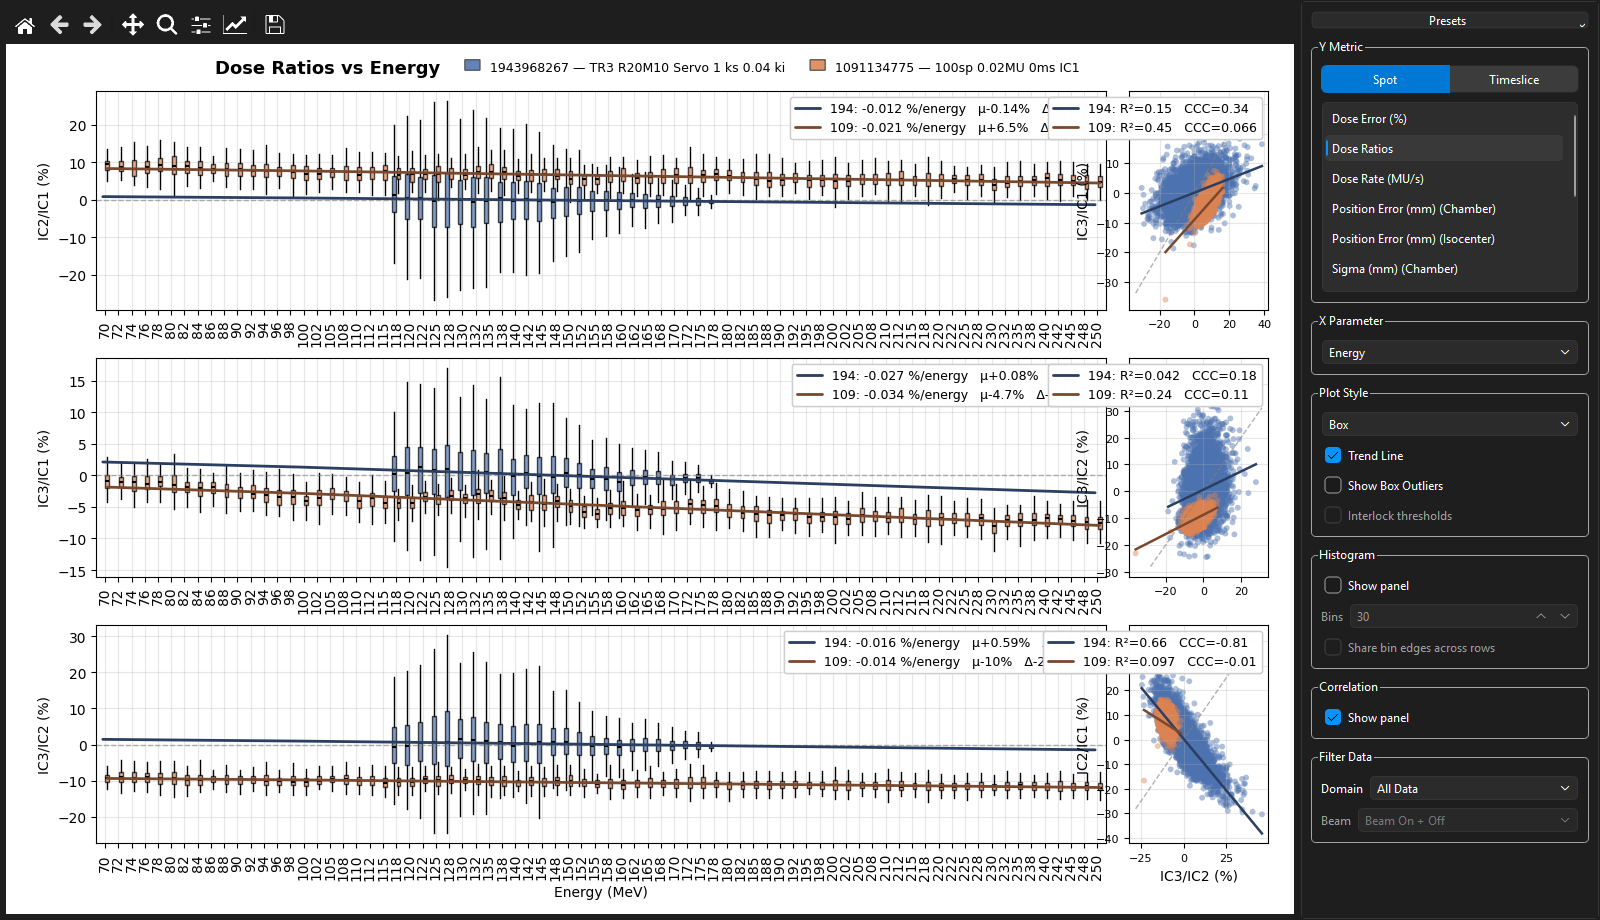
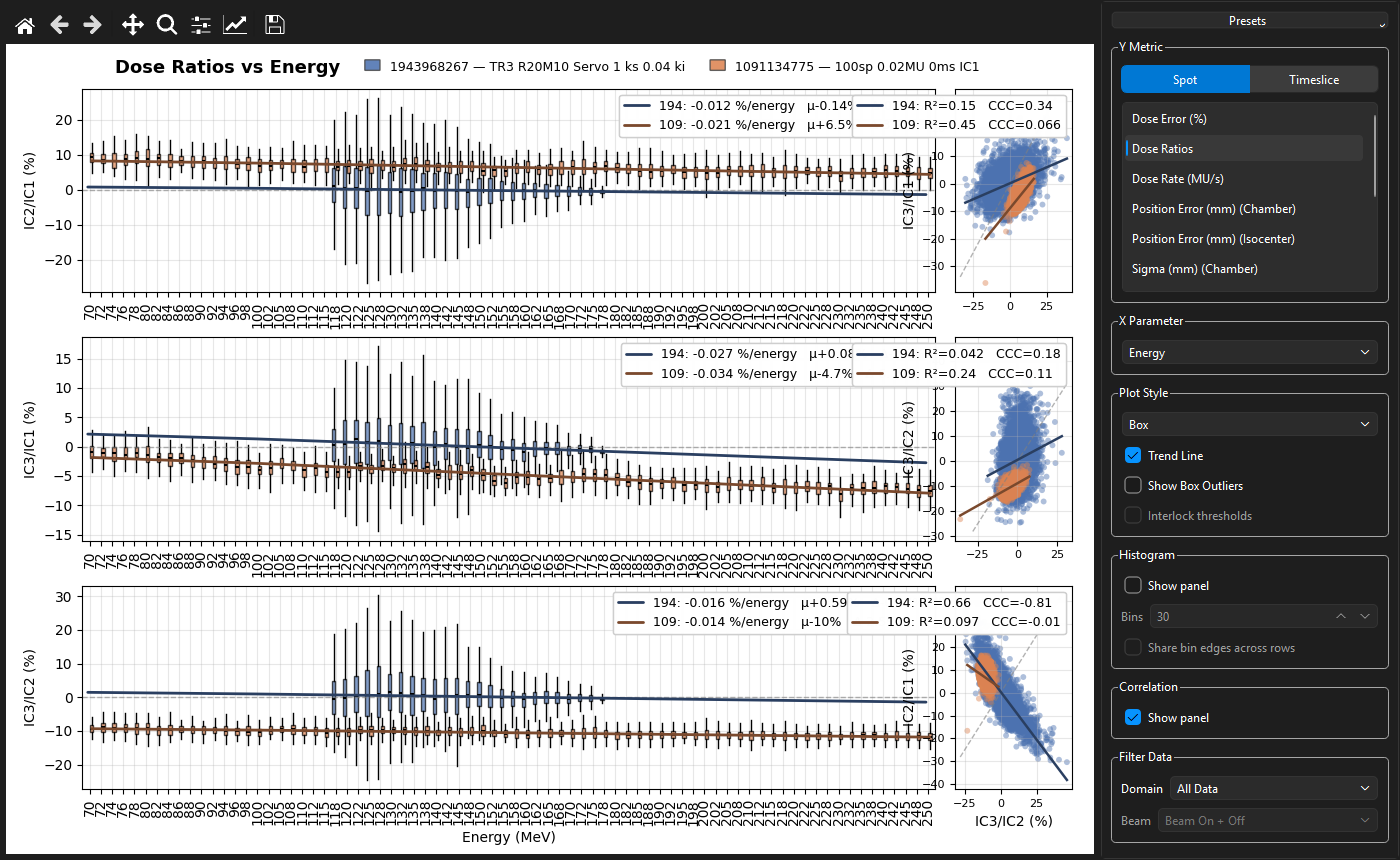
Strip README em dashes and recapture screenshots so they stay readable on GitHub.

Changed region(s): [[0.0, 0.0, 1.0, 0.9977], [0.8907, 0.0, 0.9214, 0.0302]]

diff --git a/scripts/capture_doc_screenshots.py b/scripts/capture_doc_screenshots.py
@@ -5,7 +5,7 @@ Usage:
     python scripts/capture_doc_screenshots.py
 
 Requires a local test_data/ folder (not shipped with the repo). Forces the dark
-theme for the grab only — it does not persist View > Theme.
+theme for the grab only; it does not persist View > Theme.
 """
 
 from __future__ import annotations
@@ -23,9 +23,11 @@ OUT_DIR = ROOT / "docs" / "images"
 SESSION_G3_A = "1943968267"
 SESSION_G3_B = "1091134775"
 SESSION_G2 = "590658542"
+# Adjacent in the date-sorted table so both Use swatches show in the launcher shot.
+LAUNCHER_SESSIONS = ["656350661", "1943968267"]
 
-LAUNCHER_SIZE = (1440, 900)
-VIEW_SIZE = (1600, 920)
+LAUNCHER_SIZE = (1200, 760)
+VIEW_SIZE = (1400, 860)
 PUBLIC_DATA_DIR = "test_data"
 PUBLIC_RCI_HOST = "192.168.100.184"
 
@@ -220,9 +222,9 @@ def _capture_launcher_screenshots(base_dir: str) -> None:
     browser.set_base_dir(base_dir)
     _wait_until(lambda: browser._scan_complete and browser._table.rowCount() >= 2)
 
-    _select_sessions(browser, [SESSION_G3_A, SESSION_G3_B])
+    _select_sessions(browser, LAUNCHER_SESSIONS)
     _wait_until(lambda: browser._scan_complete)
-    _select_sessions(browser, [SESSION_G3_A, SESSION_G3_B])
+    _select_sessions(browser, LAUNCHER_SESSIONS)
     browser._base_dir_input.setText(PUBLIC_DATA_DIR)
     app.processEvents()
 
@@ -433,7 +435,7 @@ def main() -> None:
         stale.unlink()
         print(f"Removed stale {stale.name}")
 
-    print(f"\nDone — {len(list(OUT_DIR.glob('*.png')))} images in {OUT_DIR}")
+    print(f"\nDone: {len(list(OUT_DIR.glob('*.png')))} images in {OUT_DIR}")
 
 
 if __name__ == "__main__":

diff --git a/README.md b/README.md
@@ -6,7 +6,7 @@
 
 <p align="center">
   <strong>Open-source analysis for proton pencil beam scanning sessions.</strong><br>
-  Explore beam quality, dosimetry, magnetics, and delivery logs — from a single desktop launcher.
+  Explore beam quality, dosimetry, magnetics, and delivery logs from a single desktop launcher.
 </p>
 
 <p align="center">
@@ -42,7 +42,7 @@
 
 ## What Scan Kit does
 
-Scan Kit is a desktop toolkit for reviewing PBS treatment and QA sessions. Point it at a folder of session data, select up to five sessions, and launch analysis views — each in its own process so the launcher stays responsive.
+Scan Kit is a desktop toolkit for reviewing PBS treatment and QA sessions. Point it at a folder of session data, select up to five sessions, and launch analysis views, each in its own process so the launcher stays responsive.
 
 Beyond plotting, Scan Kit helps you:
 
@@ -54,7 +54,7 @@ Beyond plotting, Scan Kit helps you:
 | **Plan delivery** | Upload a plan to an RCI, run it, and download the session as a G3 zip |
 | **Config editing** | Browse and edit map2map XML with forms, integrity checks, and auto-tuning |
 
-Scan Kit reads standard DCS session exports — unpacked directories or common archive formats — and works with both G2 and G3 data layouts.
+Scan Kit reads standard DCS session exports (unpacked directories or common archive formats) and works with both G2 and G3 data layouts.
 
 ## Get started
 
@@ -117,13 +117,13 @@ On a dev install, the default data source is the bundled `test_data/` folder.
 <p align="center">
   <img src="docs/images/view-dose-ratios-energy.png" alt="Binned Summary dose ratios vs energy with correlation panels" width="920">
   <br>
-  <sub><em>Binned Summary — dose ratios vs energy, with optional correlation panels for multi-session overlay.</em></sub>
+  <sub><em>Binned Summary: dose ratios vs energy, with optional correlation panels for multi-session overlay.</em></sub>
 </p>
 
 <p align="center">
   <img src="docs/images/view-ic-timeslice-replay.png" alt="Timeslice Replay viewer with signal-source controls and timeline brush" width="920">
   <br>
-  <sub><em>Timeslice Replay — pick a signal source, tick channels, and scrub the timeline brush.</em></sub>
+  <sub><em>Timeslice Replay: pick a signal source, tick channels, and scrub the timeline brush.</em></sub>
 </p>
 
 <p align="center">
@@ -144,34 +144,34 @@ On a dev install, the default data source is the bundled `test_data/` folder.
 
 ## The launcher
 
-Scan Kit opens a single window with five tabs. **View** switches tabs (`Ctrl+1`–`Ctrl+5`) and sets **Theme** (System / Light / Dark). **Analysis** opens the same views as the Data Analysis buttons. **File** opens or refreshes the session folder. **Esc** or **Ctrl+Q** quits.
+Scan Kit opens a single window with five tabs. **View** switches tabs (`Ctrl+1` to `Ctrl+5`) and sets **Theme** (System / Light / Dark). **Analysis** opens the same views as the Data Analysis buttons. **File** opens or refreshes the session folder. **Esc** or **Ctrl+Q** quits.
 
-| Tab | Shortcut | Use it to… |
-|-----|----------|------------|
+| Tab | Shortcut | Use it to |
+|-----|----------|-----------|
 | **Data Analysis** | `Ctrl+1` | Browse sessions, adjust global plot settings, and open analysis views |
 | **Plan Synthesis** | `Ctrl+2` | Create PBS test plans and export `input_map.csv` |
 | **Plan Runner** | `Ctrl+3` | Connect to an RCI, upload a plan, run it, and download the session |
 | **Configuration Tuning** | `Ctrl+4` | Open a facility or session config folder, edit XML, run tuning workflows |
-| **Debug** | `Ctrl+5` | Live launcher and view-process logs — Copy / Clear for support |
+| **Debug** | `Ctrl+5` | Live launcher and view-process logs, with Copy / Clear for support |
 
-Plot windows open separately. Close them when you are done — the launcher keeps running.
+Plot windows open separately. Close them when you are done. The launcher keeps running.
 
 ## Data Analysis
 
 ### 1. Choose your data source
 
-Paste a folder, Windows UNC share (`\\server\share\...`), or URL such as `sftp://user@host/var/log/ptc_ex` into the path field (placeholder: *Folder, UNC, or sftp://user@host/path*). **Browse…** can pick local and UNC/Network folders; on Linux desktops whose file dialogs speak GVfs/KIO it can pick `sftp://` and `smb://` too. Windows Explorer does not speak SFTP, so those URLs are still pasted. Press **Enter**, click away, or hit **↻** / **File → Refresh Sessions** to rediscover.
+Paste a folder, Windows UNC share (`\\server\share\...`), or URL such as `sftp://user@host/var/log/ptc_ex` into the path field (placeholder: *Folder, UNC, or sftp://user@host/path*). **Browse...** can pick local and UNC/Network folders; on Linux desktops whose file dialogs speak GVfs/KIO it can pick `sftp://` and `smb://` too. Windows Explorer does not speak SFTP, so those URLs are still pasted. Press **Enter**, click away, or hit **↻** / **File → Refresh Sessions** to rediscover.
 
-SFTP uses SSH keys or the agent; a password in the URL works for that session but is not stored. Opening a remote session copies it into `~/.scan-kit/remote-cache`. The last location is remembered in `~/.scan-kit`. When running a frozen executable with no remembered folder, the default is the folder that contains the executable.
+SFTP uses SSH keys or the agent first. If those fail, Scan Kit prompts for a password and keeps it in memory until the app exits (never sqlite). Opening a remote session copies it into `~/.scan-kit/remote-cache`; **File → Clear Remote Cache…** (and Debug) shows the size and deletes that folder. List/open failures show under the path field and in Debug. The last location is remembered in `~/.scan-kit`. When running a frozen executable with no remembered folder, the default is the folder that contains the executable.
 
 ### 2. Select sessions
 
 The session table shows **Use**, **Session ID**, **Date**, **MU**, **Time**, **RM**, **Config**, and **Note**. Selected rows get a plot-color swatch so overlays match the views.
 
 - Sort by **Date** (newest first), **ID**, **Config**, or **MU**
-- Tick **Use** on up to **five** sessions — no modifier key needed
+- Tick **Use** on up to **five** sessions; no modifier key needed
 - Click **✕** to clear all selections
-- **Right-click** a session → **Copy Session ID**, **Move to Recycle Bin…** (or **Delete from remote host…**), or **Open in Config Tuning…** when a config folder is available
+- **Right-click** a session → **Copy Session ID**, **Move to Recycle Bin...** (or **Delete from remote host...**), or **Open in Config Tuning...** when a config folder is available
 
 Remote deletes are permanent (no recycle bin on the host). Local sessions go to the OS Recycle Bin / trash and can be restored from there.
 
@@ -188,7 +188,7 @@ Two controls affect most dose-related views:
 | **BG Subtraction** | Off / On |
 | **Calibration** | Off · Per-Session · Constrained |
 
-Settings persist in `~/.scan-kit/scan-kit.sqlite` and propagate to views that are already open. These plot-calibration modes never write `devices.xml` — that is **Dose Calibration** on the Configuration Tuning tab.
+Settings persist in `~/.scan-kit/scan-kit.sqlite` and propagate to views that are already open. These plot-calibration modes never write `devices.xml`. That is **Dose Calibration** on the Configuration Tuning tab.
 
 ### 5. Open analysis views
 
@@ -204,13 +204,13 @@ Configurable Qt shells for the metrics most sessions need day to day.
 
 | View | Summary |
 |------|---------|
-| Binned Summary | Box / violin / mean / scatter / contour summary — pick **Y metric** (dose error, dose ratios, dose rate, current ratios, IC current, position error, sigma, sigma error, IC2−IC1 position, spot time) and **X parameter** (energy, target MU, spot time, beam radius). **Filter Data** includes beam on/off/both plus All Data / Within Lower 95% / Upper 5% Only / MAD Outliers. Optional interlock-threshold overlay on dose-vs-MU plots. |
-| Distribution Explorer | Density contours or scatter — position, position error, sigma, sigma error, IC2−IC1 position, confidence correlations, and Gaussian filter coverage, at spot or timeslice grain. |
-| Timeslice Replay | Interactive multi-channel timeslice viewer — [details](#interactive-replay-views) |
+| Binned Summary | Box / violin / mean / scatter / contour summary. Pick **Y metric** (dose error, dose ratios, dose rate, current ratios, IC current, position error, sigma, sigma error, IC2-IC1 position, spot time) and **X parameter** (energy, target MU, spot time, beam radius). **Filter Data** includes beam on/off/both plus All Data / Within Lower 95% / Upper 5% Only / MAD Outliers. Optional interlock-threshold overlay on dose-vs-MU plots. |
+| Distribution Explorer | Density contours or scatter of position, position error, sigma, sigma error, IC2-IC1 position, confidence correlations, and Gaussian filter coverage, at spot or timeslice grain. |
+| Timeslice Replay | Interactive multi-channel timeslice viewer. See [details](#interactive-replay-views) |
 | FFT Explorer | Frequency-domain line spectra for timeslice IC current, dDose/dt, source beam current, chamber position, sigma, G3 Gaussian peak, magnetic field, and amplifier command/readback. |
 | Audio Explorer | Listen to the same timeslice families, with transport, a live playhead FFT, and **Save WAV** *(needs a working audio device / PortAudio)* |
 | IC Beam Trajectory (3D) | Per-spot IC beam paths in 3D with plan overlay, dipole pivots, and iso/IC planes (visPy) |
-| Session Log Compare | Layer timings, grouped errors, event browser, two-session diff — [details](#session-log-compare) |
+| Session Log Compare | Layer timings, grouped errors, event browser, two-session diff. See [details](#session-log-compare) |
 
 For position scatter, position-error outliers, beam-on/off IC current histograms, and most dose/position/sigma summaries, start with **Binned Summary** or **Distribution Explorer** instead of opening a dedicated legacy plot.
 
@@ -224,12 +224,12 @@ Focused plots that still use standalone matplotlib windows:
 | Dose Accumulation | Expected vs measured cumulative dose per chamber |
 | Beam-Off Ramp-Down | Beam-off current ramp-down curves (IC1/IC2/IC3) |
 | IC HV Transient Test | IC high-voltage toggle transients with capacitance re-derived from waveforms |
-| Amplifier Command Correlations | Settled amplifier command vs readback, field, and IC iso position — [details](#amplifier-command-correlations) |
-| IC Peak Amplitude — Beam-Off (G3) | G3 beam-off peak amplitude distributions |
+| Amplifier Command Correlations | Settled amplifier command vs readback, field, and IC iso position. See [details](#amplifier-command-correlations) |
+| IC Peak Amplitude - Beam-Off (G3) | G3 beam-off peak amplitude distributions |
 
 ### Interactive replay views
 
-**Timeslice Replay** opens a Qt window with an embedded Matplotlib plot and a unified **Signal Source** list (same metric names and isocenter/chamber variants as Binned Summary and Distribution Explorer where applicable). Sources include **IC current**, **dDose/dt**, **sigma**, **sigma error**, **position**, **position error**, **IC2−IC1 position**, and **magnetic field**. Presets jump to common sets; pick channels within the selected source from the checklist below. Detail traces sit above a compressed timeline brush. See the [screenshots](#screenshots) for examples.
+**Timeslice Replay** opens a Qt window with an embedded Matplotlib plot and a unified **Signal Source** list (same metric names and isocenter/chamber variants as Binned Summary and Distribution Explorer where applicable). Sources include **IC current**, **dDose/dt**, **sigma**, **sigma error**, **position**, **position error**, **IC2-IC1 position**, and **magnetic field**. Presets jump to common sets; pick channels within the selected source from the checklist below. Detail traces sit above a compressed timeline brush. See the [screenshots](#screenshots) for examples.
 
 1. Select session(s) and open **Timeslice Replay**.
 2. Choose a signal source from the list (or use a preset), then tick the channels to plot.
@@ -248,17 +248,17 @@ Selecting field channels shows a Bx-vs-By scatter panel (colored by energy) besi
 
 ### Amplifier command correlations
 
-For G2 correcting-coil sessions, this view plots beam-on samples where amplifier commands have reached a settled plateau. Scatter panels relate command to readback, magnetic field, and IC iso position — useful for diagnosing steering-chain consistency end to end.
+For G2 correcting-coil sessions, this view plots beam-on samples where amplifier commands have reached a settled plateau. Scatter panels relate command to readback, magnetic field, and IC iso position, useful for diagnosing steering-chain consistency end to end.
 
 ### Session log compare
 
 Every session ships a verbose `SessionLogFile.log` from DCS. This view distills it:
 
 1. Select **one** session to explore, or **two** to compare.
-2. **Layer timeline** — `START MAP` and `SCAN EXECUTING` durations per layer.
-3. **Issues** — grouped `ERROR` templates and watchdog mismatches.
-4. **Event browser** — filterable log with *Hide noise* to skip ACK/command chatter.
-5. **Message diff** *(two sessions)* — templates whose occurrence counts differ most.
+2. **Layer timeline:** `START MAP` and `SCAN EXECUTING` durations per layer.
+3. **Issues:** grouped `ERROR` templates and watchdog mismatches.
+4. **Event browser:** filterable log with *Hide noise* to skip ACK/command chatter.
+5. **Message diff** *(two sessions):* templates whose occurrence counts differ most.
 
 ## Plan Synthesis
 
@@ -282,7 +282,7 @@ Pick a template, set parameters, preview the spot table, and export. Suggested f
 The **Plan Runner** tab (`Ctrl+3`) is the operator console for an RCI:
 
 1. Enter the RCI IP (or a browser URL such as `http://192.168.100.184/io/`) and **Connect**. The last host is remembered.
-2. **Browse…** to an `input_map.csv` from Plan Synthesis and **Upload to RCI**.
+2. **Browse...** to an `input_map.csv` from Plan Synthesis and **Upload to RCI**.
 3. **Start** / **Pause** / **Stop** / **Reset** follow the controller ready-permit. Start enables when the RCI grants permit.
 4. After the run, **Download** saves a G3-layout session zip under `/root/reports/session/` on the RCI so Data Analysis can open it like any other session.
 
@@ -296,11 +296,11 @@ Live tiles show control point, energy, layer, elapsed time, start permit, and wh
 
 The **Configuration Tuning** tab (`Ctrl+4`) is a structured editor for map2map XML configuration:
 
-- **File tree** — browse `devices.xml` and related config files
-- **Auto-generated forms** — edit XML values without raw markup
-- **Hide unused map2map XML** — collapse attributes the map2map library never reads
-- **Integrity badges** — SHA-256 sidecar verification at a glance
-- **Auto-tuning workflows** — **Sigma Tuning**, **Position Offset Tuning**, **IC Distance Tuning**, and **Dose Calibration** derive updated `devices.xml` values from measured sessions, with preview before apply
+- **File tree:** browse `devices.xml` and related config files
+- **Auto-generated forms:** edit XML values without raw markup
+- **Hide unused map2map XML:** collapse attributes the map2map library never reads
+- **Integrity badges:** SHA-256 sidecar verification at a glance
+- **Auto-tuning workflows:** **Sigma Tuning**, **Position Offset Tuning**, **IC Distance Tuning**, and **Dose Calibration** derive updated `devices.xml` values from measured sessions, with preview before apply
 
 Jump here directly from a session's context menu in Data Analysis when an on-disk config folder exists.
 
@@ -323,7 +323,7 @@ Two workflows correct IC positions, and they are the same model with one paramet
 | **Position Offset Tuning** | `zero_offset_at_iso_mm` | a constant shift, whatever the distance from isocenter |
 | **IC Distance Tuning** | `source_to_device_distance_mm` and `zero_offset_at_iso_mm` | a shift *plus* an error that grows with distance from isocenter |
 
-IC Distance Tuning assumes delivery at isocenter is correct and the chamber is mis-scaled, then fits both together — since `source_to_device_distance_mm` is the only per-chamber scale knob map2map honours. Fitting them jointly matters because an offset fitted against a wrong scale absorbs part of the scale error, so use Position Offset Tuning only when the scale is trusted.
+IC Distance Tuning assumes delivery at isocenter is correct and the chamber is mis-scaled, then fits both together, since `source_to_device_distance_mm` is the only per-chamber scale knob map2map honours. Fitting them jointly matters because an offset fitted against a wrong scale absorbs part of the scale error, so use Position Offset Tuning only when the scale is trusted.
 
 Because it moves a *surveyed* distance, the workflow needs spot data from a plan that actually spans the field, reports each proposed change against its own fit uncertainty, and refuses changes the data cannot support. Per-spot scatter alone will fit a small scale error on any real session, so a change smaller than a few sigma is flagged rather than trusted. Changing the distance also rescales isocenter sigma by the same factor, so re-run Sigma Tuning afterwards.
 
@@ -333,7 +333,7 @@ Read the preview by these columns:
 
 | Column | Means |
 | --- | --- |
-| **Systematic** | position error at the worst field edge that the change removes — the reason to apply it |
+| **Systematic** | position error at the worst field edge that the change removes, which is the reason to apply it |
 | **RMS err** | what the fit minimises, so the honest before/after |
 | **Max \|err\|** | a single worst spot; it can *rise* when correcting a systematic of opposite sign stops masking an outlier |
 
@@ -357,7 +357,7 @@ HCC and strip devices in one IC family keep their relative `K_MU` and all move b
 
 ## Session data layout
 
-Scan Kit discovers sessions from a single data-source folder. That can be a local directory, a UNC share, or an fsspec URL (`sftp://`, `smb://`, `ftp://`, `ssh://`/`scp://` as SFTP aliases, …). Supported layouts:
+Scan Kit discovers sessions from a single data-source folder. That can be a local directory, a UNC share, or an fsspec URL (`sftp://`, `smb://`, `ftp://`, `ssh://`/`scp://` as SFTP aliases, ...). Supported layouts:
 
 **Unpacked directories**
 
@@ -365,18 +365,18 @@ Scan Kit discovers sessions from a single data-source folder. That can be a loca
 <data_source>/
   <session_id>/
     input_map.csv
-    SessionLogFile.log          # optional — session log views
+    SessionLogFile.log          # optional: session log views
     layer-<n>/run-<m>/
       timeslice_data_device_units.csv   # timeslice views
 ```
 
 A nested layout (`<session_id>/<session_id>/input_map.csv`) is also recognized.
 
-**Archive files** — each archive should contain a top-level `<session_id>/` folder:
+**Archive files:** each archive should contain a top-level `<session_id>/` folder:
 
 `.zip` · `.tgz` · `.tar.gz` · `.tar.bz2` · `.tar.xz` · `.tar`
 
-Session-list metadata is cached in `~/.scan-kit` so the table can fill without extracting every archive. Opening a view still unpacks (or copies a remote session into `~/.scan-kit/remote-cache`) as needed.
+Session-list metadata is cached in `~/.scan-kit` so the table can fill without extracting every archive. Opening a view still unpacks (or copies a remote session into `~/.scan-kit/remote-cache`, with a progress dialog) as needed.
 
 ---
 
@@ -407,7 +407,7 @@ pip install -e ".[build,dev]"
 pytest
 ```
 
-Tests live in `tests/` and use fixtures from `test_data/` (included in dev installs, excluded from the published package). The suite runs headless — Agg matplotlib backend, no Qt windows. Default `pytest` skips `@pytest.mark.slow` tests; `pytest -m slow` runs the heavy session/Qt cases.
+Tests live in `tests/` and use fixtures from `test_data/` (included in dev installs, excluded from the published package). The suite runs headless (Agg matplotlib backend, no Qt windows). Default `pytest` skips `@pytest.mark.slow` tests; `pytest -m slow` runs the heavy session/Qt cases.
 
 App preferences (window geometry, last data directory, plot settings, session notes, theme) persist in `~/.scan-kit/scan-kit.sqlite`.
 
@@ -431,7 +431,7 @@ Output: `dist/scan-kit` (Linux) or `dist/scan-kit.exe` (Windows). Local builds k
 
 Releases are automated via [`.github/workflows/build.yml`](.github/workflows/build.yml).
 
-1. Bump `__version__` in `scan_kit/__init__.py` — the single source of truth, also read by `pyproject.toml` and the window title.
+1. Bump `__version__` in `scan_kit/__init__.py`, the single source of truth, also read by `pyproject.toml` and the window title.
 2. Commit: `Release vX.Y.Z`, merge to `develop`, then promote `develop` → `main` (or release directly from `main` once aligned).
 3. Tag and push:
 
@@ -454,4 +454,4 @@ CI verifies the tag matches `__version__` before publishing. The project follows
 
 ## License
 
-[MIT](LICENSE) — Copyright (c) 2026 Pyramid Technical Consultants
+[MIT](LICENSE). Copyright (c) 2026 Pyramid Technical Consultants
